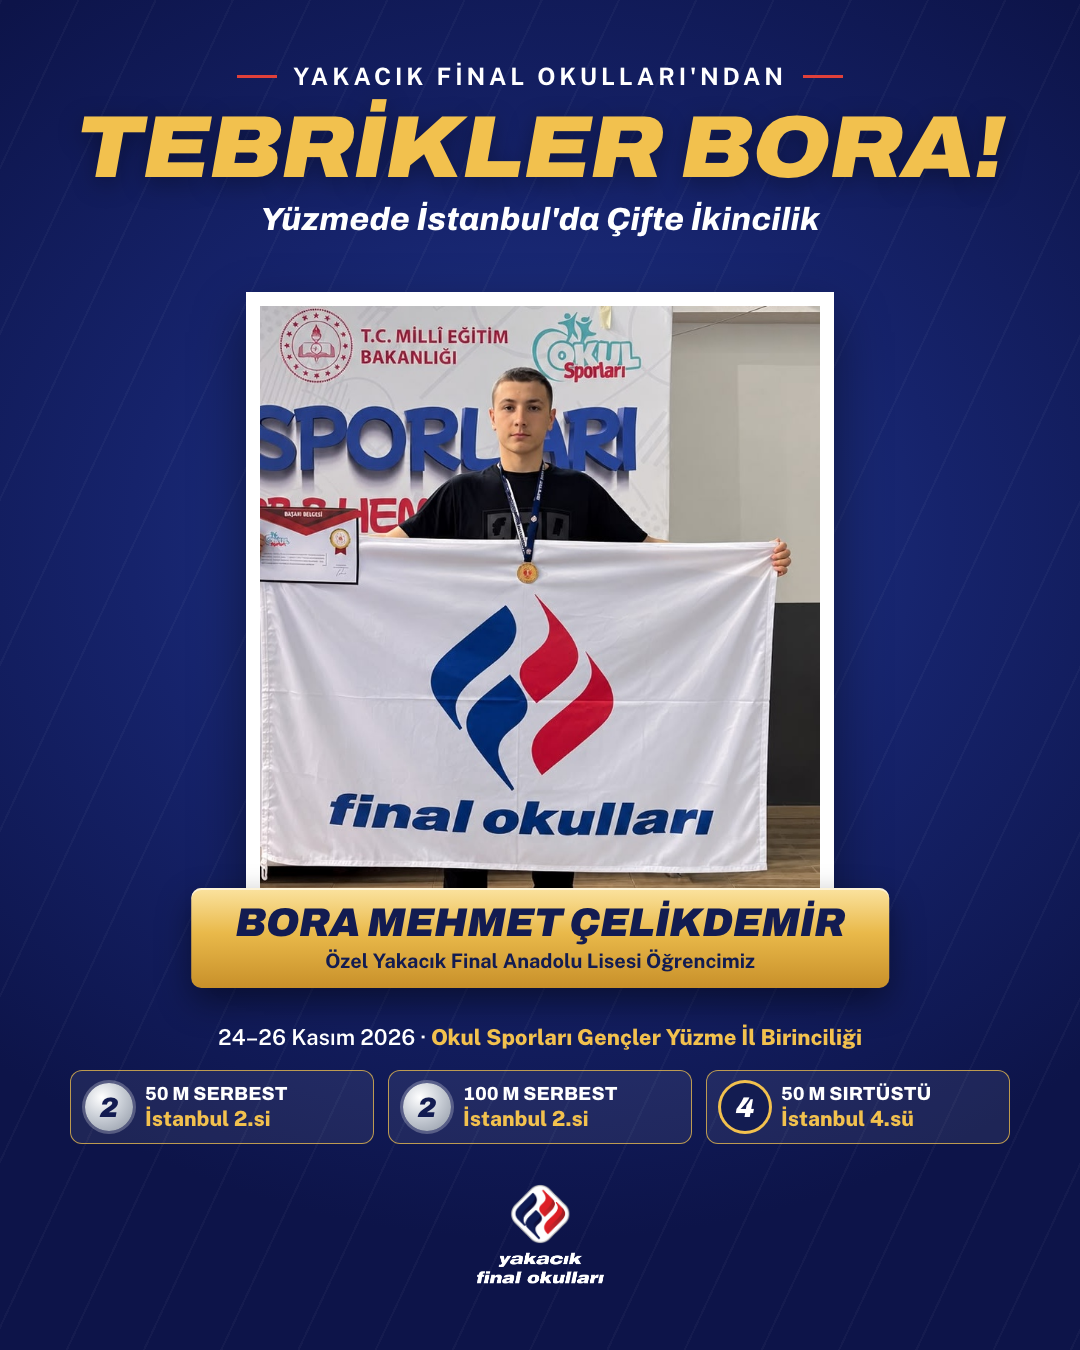
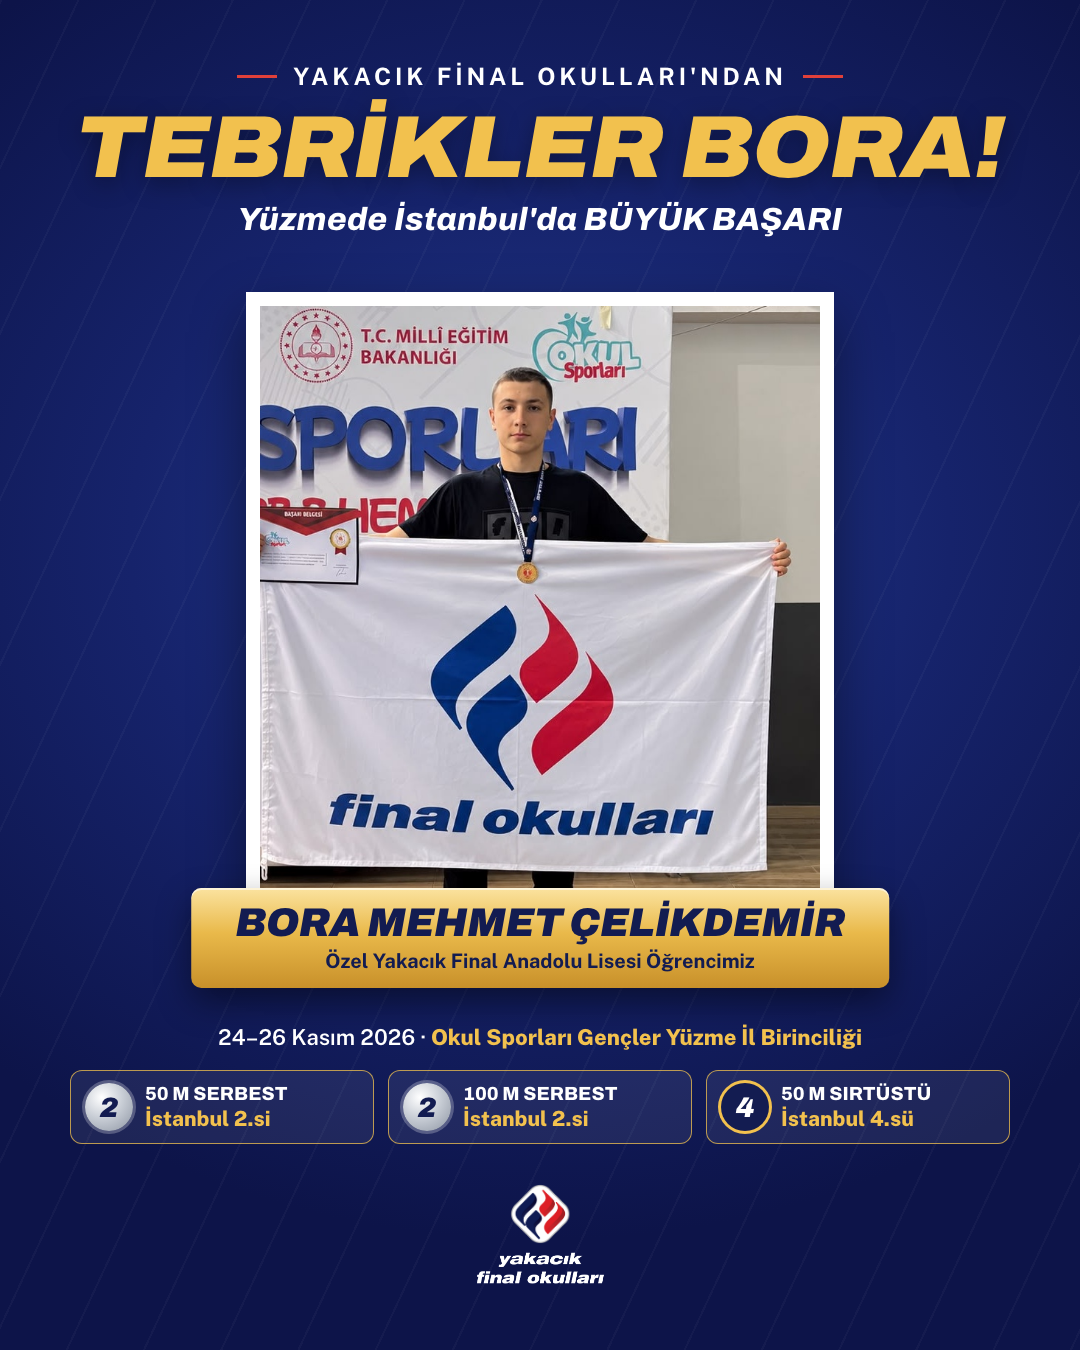
Bora yüzme post C: alt başlık 'Yüzmede İstanbul'da BÜYÜK BAŞARI'

Changed region(s): [[0.2139, 0.1556, 0.7944, 0.1867]]

diff --git a/marka/yakacik-final/bora-yuzme-basari-2026/kaynak/C-lacivert-cerceve.html b/marka/yakacik-final/bora-yuzme-basari-2026/kaynak/C-lacivert-cerceve.html
@@ -37,7 +37,7 @@ body{background:radial-gradient(ellipse 820px 700px at 50% 40%,#22398F 0%,#16236
 <div class="abs isin"></div>
 <div class="abs ust"><div class="k">YAKACIK FİNAL OKULLARI'NDAN</div>
 <div class="d b">TEBRİKLER BORA!</div>
-<div class="s">Yüzmede İstanbul'da Çifte İkincilik</div></div>
+<div class="s">Yüzmede İstanbul'da BÜYÜK BAŞARI</div></div>
 <div class="abs cerceve"><img src="bora-kirp.jpg"></div>
 <div class="abs plaka"><div class="d ad">BORA MEHMET ÇELİKDEMİR</div>
 <div class="alt">Özel Yakacık Final Anadolu Lisesi Öğrencimiz</div></div>

diff --git a/marka/yakacik-final/bora-yuzme-basari-2026/kaynak/uret.py b/marka/yakacik-final/bora-yuzme-basari-2026/kaynak/uret.py
@@ -156,7 +156,7 @@ body{{background:radial-gradient(ellipse 820px 700px at 50% 40%,#22398F 0%,#1623
 <div class="abs isin"></div>
 <div class="abs ust"><div class="k">YAKACIK FİNAL OKULLARI'NDAN</div>
 <div class="d b">TEBRİKLER BORA!</div>
-<div class="s">Yüzmede İstanbul'da Çifte İkincilik</div></div>
+<div class="s">Yüzmede İstanbul'da BÜYÜK BAŞARI</div></div>
 <div class="abs cerceve"><img src="bora-kirp.jpg"></div>
 <div class="abs plaka"><div class="d ad">BORA MEHMET ÇELİKDEMİR</div>
 <div class="alt">Özel Yakacık Final Anadolu Lisesi Öğrencimiz</div></div>
